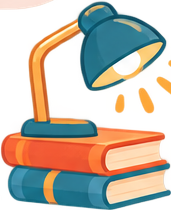
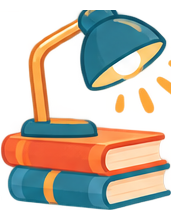
fix(front): remove o gato das Novidades e mostra a ilustração do cabeçalho inteira
- CabecalhoSecao: object-fit contain (cover cortava as laterais do globo)
- lamparina.png: limpa a faixa rosada de 10px que vinha no topo da imagem
- Minhas leituras: sem o adesivo do gato dormindo

Changed region(s): [[0.0, 0.0, 0.3216, 0.0571], [0.4971, 0.0, 0.6725, 0.0571]]

diff --git a/app/javascript/views/MinhasLeiturasView.vue b/app/javascript/views/MinhasLeiturasView.vue
@@ -15,7 +15,6 @@ import Icone from '../components/ui/Icone.vue'
 import IconeBolha from '../components/ui/IconeBolha.vue'
 import Selo from '../components/ui/Selo.vue'
 import globo from '../images/ilustracoes/globo-livros.png'
-import gato from '../images/ilustracoes/gato-dormindo.png'
 import lamparina from '../images/imgs-baixo-banner/lamparina.png'
 import nuvem from '../images/imgs-baixo-banner/nuvem.png'
 import menina from '../images/imgs-baixo-banner/garota-com-fone.png'
@@ -83,8 +82,6 @@ const novidades = [
       </section>
 
       <section class="secao secao--novidades" aria-labelledby="titulo-novidades">
-        <img class="secao-gato" :src="gato" alt="" aria-hidden="true">
-
         <div class="secao-topo">
           <CabecalhoSecao id="titulo-novidades" titulo="Novidades no acervo" subtitulo="Livros que acabaram de chegar no cantinho.">
             <template #ilustracao><img :src="lamparina" alt=""></template>
@@ -196,15 +193,6 @@ const novidades = [
   gap: var(--espaco-16);
 }
 
-.secao-gato {
-  position: absolute;
-  top: 54px;
-  left: 61%;
-  z-index: 1;
-  width: 140px;
-  pointer-events: none;
-}
-
 .grade {
   display: grid;
   gap: 20px;
@@ -231,8 +219,7 @@ const novidades = [
 /* ===== Telas menores ===== */
 @media (max-width: 1000px) {
   .boas-vindas-nuvem,
-  .boas-vindas-menina,
-  .secao-gato {
+  .boas-vindas-menina {
     display: none;
   }
 }

diff --git a/app/javascript/components/ui/CabecalhoSecao.vue b/app/javascript/components/ui/CabecalhoSecao.vue
@@ -41,7 +41,7 @@ defineProps({
 .cabecalho-secao-ilustracao :slotted(img) {
   width: 100%;
   height: 100%;
-  object-fit: cover;
+  object-fit: contain; /* a ilustração aparece inteira, qualquer que seja a proporção dela */
 }
 
 .cabecalho-secao-titulo {
